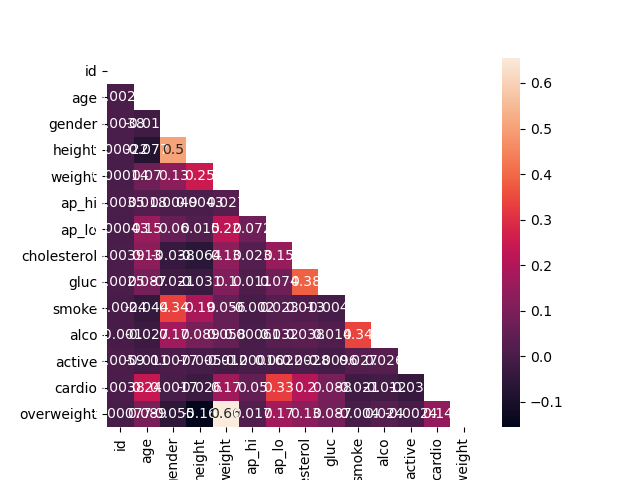
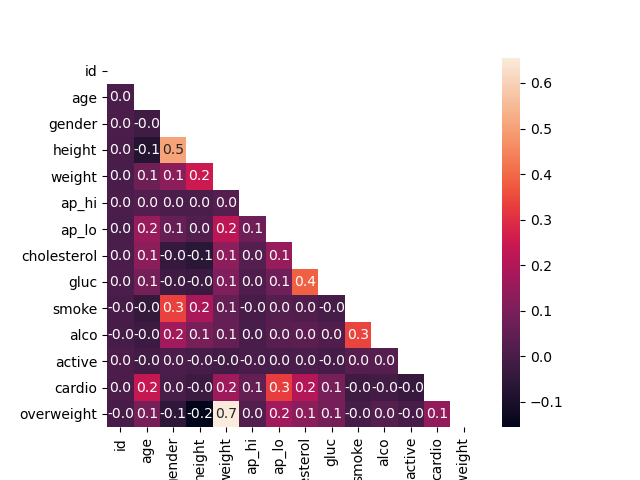
simple version completed

diff --git a/medicalData/medical_data_visualizer.py b/medicalData/medical_data_visualizer.py
@@ -19,10 +19,6 @@ def draw_cat_plot():
 	# Create DataFrame for cat plot using `pd.melt` using just the values from 'cholesterol', 'gluc', 'smoke', 'alco', 'active', and 'overweight'.
 	df_cat = pd.melt(df, id_vars='cardio', value_vars=['alco', 'active','cholesterol', 'gluc', 'smoke', 'overweight'])
 	# Group and reformat the data to split it by 'cardio'. Show the counts of each feature. You will have to rename one of the collumns for the catplot to work correctly.
-	########################rework
-	print(df_cat.value_counts(ascending=True))
-	df_cat['total'] = None
-	print(df_cat.head())
 
 	# Draw the catplot with 'sns.catplot()'
 	fig = sns.catplot(data=df_cat, kind='count', x='variable', hue='value', col='cardio')
@@ -53,12 +49,10 @@ def draw_heat_map():
 	fig, ax = plt.subplots()
 
 	# Draw the heatmap with 'sns.heatmap()'
-	ax = sns.heatmap(data=corr, mask=mask, annot=True, square=True)
+	ax = sns.heatmap(data=corr, mask=mask, annot=True, fmt='.1f', square=True)
 
 
 	# Do not modify the next two lines
 	fig.savefig('heatmap.png')
 	return fig
 
-draw_cat_plot()
-draw_heat_map()
